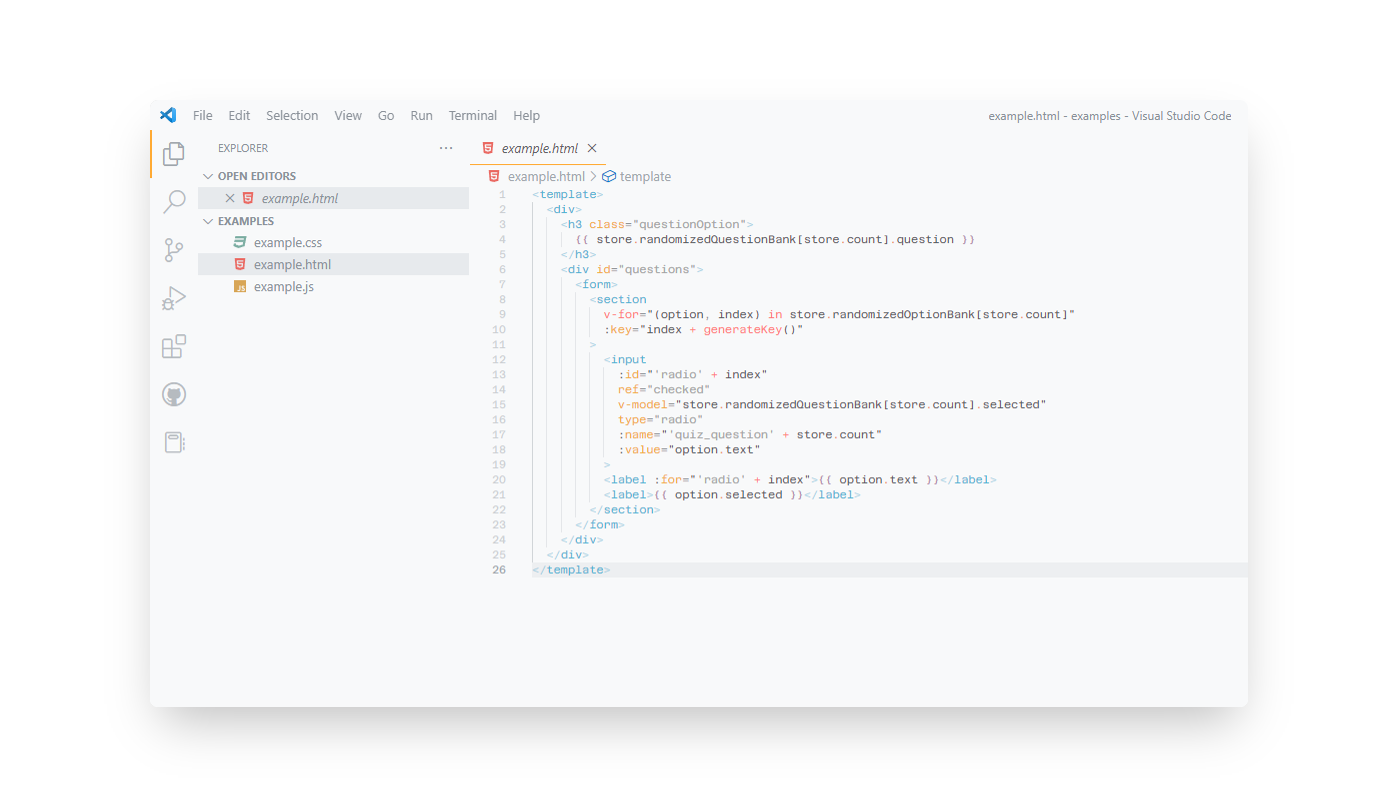
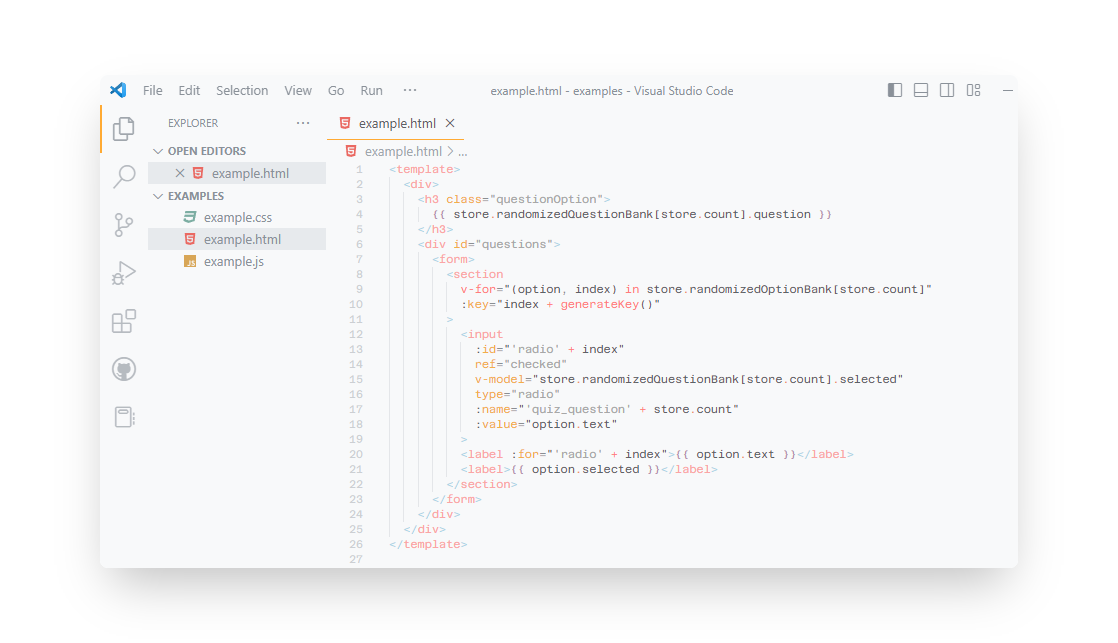
update images, update README.md

diff --git a/examples/example.js b/examples/example.js
@@ -31,19 +31,27 @@ const randomizeData = () => {
   }
 }
 
-const displayQuestions = (counter) => {
-  toggleButtons(counter)
-  let questionDisplay = ''
-  let optionsDisplay = ''
-  let optionDisplayArray = []
-  optionDisplayArray = (randomizedOptionBank[counter - 1])
 
-  questionDisplay += `<h3 class='questionOption'>${randomizedQuestionBank[counter - 1].question}</h3>`
 
-  for (let i = 0; i < optionDisplayArray.length; i++) {
-    optionsDisplay +=
-      `<input type='radio' id='radio${i}' name='quiz_questions${count}' value='${optionDisplayArray[i].correct}'>` +
-      `<label>${optionDisplayArray[i].text}</label>`
-  }
-  displayOptions(questionDisplay, optionsDisplay)
-}
+
+
+
+
+
+
+
+
+
+
+
+
+
+
+
+
+
+
+
+
+
+

diff --git a/themes/ruCream-color.js b/themes/ruCream-color.js
@@ -10,9 +10,8 @@ const colors = {
     templatePairs: '#55B4D4',
     attributeNames: '#F2AE49',
     keywordControl: '#FF7C7C',
-    css: 'Ayu light'
   },
   others: {
-    default: 'Ayu light'
+    //
   }
 }

diff --git a/examples/example.css b/examples/example.css
@@ -14,3 +14,35 @@ label,
 input {
   padding: 4px;
 }
+
+
+
+
+
+
+
+
+
+
+
+
+
+
+
+
+
+
+
+
+
+
+
+
+
+
+
+
+
+
+
+

diff --git a/examples/example.html b/examples/example.html
@@ -24,3 +24,27 @@
     </div>
   </div>
 </template>
+
+
+
+
+
+
+
+
+
+
+
+
+
+
+
+
+
+
+
+
+
+
+
+

diff --git a/README.md b/README.md
@@ -23,15 +23,15 @@ Designed as a light creamy theme, inspired by the iconic Russian cream dessert c
 
 #### javascript
 
-![Screenshot JavaScript](https://imgur.com/gLf8p2U.png)
+![Screenshot JavaScript](https://imgur.com/YmDFlQD.png)
 
 #### html
 
-![Screenshot html](https://imgur.com/ZnXN0rU.png)
+![Screenshot html](https://imgur.com/L9uYKui.png)
 
 #### css
 
-![Screenshot css](https://imgur.com/KLXkyhE.png)
+![Screenshot css](https://imgur.com/ig0Ve1o.png)
 ------------------------------------------------
 
 ### Installation

diff --git a/CHANGELOG.md b/CHANGELOG.md
@@ -1,6 +1,6 @@
 # Change Log
 
-All notable changes to the "rescream" extension will be documented in this file.
+All notable changes to the "rucream" extension will be documented in this file.
 
 Check [Keep a Changelog](http://keepachangelog.com/) for recommendations on how to structure this file.
 
